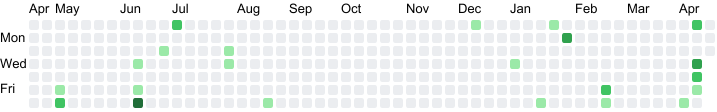
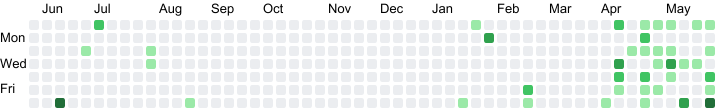
github草グラフ取得スクリプトの取り込み

diff --git a/src/pages/index.tsx b/src/pages/index.tsx
@@ -12,6 +12,10 @@ import Footer from "@/components/footer";
 import Head from "@/components/head";
 import style from "@/styles/index.module.css";
 
+const gitHubGraphImageLoader = (): string => {
+  return "https://himazin331.com/images/grass_graph.png";
+};
+
 const gitHubStatsImageLoader = (): string => {
   return "https://github-readme-stats.vercel.app/api?username=himazin331&count_private=true&show_icons=true";
 };
@@ -153,7 +157,7 @@ const IndexPage: NextPage<JSX.Element> = () => {
 
               <Card className={style.card}>
                 <div className={style.github_contributors} id="github_contributors">
-                  <Image className={style.grass_graph + ` next-image`} src="/images/grass_graph.png" alt="github contributes"
+                  <Image className={style.grass_graph + ` next-image`} src="grass_graph.png" loader={gitHubGraphImageLoader} alt="github contributes"
                     width="0" height="0" sizes="(max-width: 768px) 100vw, (max-width: 1200px) 50vw, 33vw" />
                 </div>
                 <Col className={style.github_widgets}>

diff --git a/scripts/get_github_grass.py b/scripts/get_github_grass.py
@@ -1,0 +1,73 @@
+import sys
+import xml.etree.ElementTree as ET
+
+import requests
+from bs4 import BeautifulSoup
+from reportlab.graphics import renderPDF, renderPM
+from svglib.svglib import svg2rlg
+
+GITHUB_URL: str = "https://github.com/himazin331/"
+
+
+def _parser_html(url: str) -> BeautifulSoup:
+    try:
+        r: requests.models.Response = requests.get(url, timeout=(3, 5))
+        soup: BeautifulSoup = BeautifulSoup(r.content, "html.parser")
+    except (requests.exceptions.ConnectionError, requests.exceptions.ConnectTimeout):
+        return None
+    return soup
+
+
+def main():
+    # 草グラフの取得
+    if (soup := _parser_html(GITHUB_URL)) is None:
+        sys.exit()
+    grass_graph = soup.find("svg", class_="js-calendar-graph-svg")
+    if grass_graph is None:
+        sys.exit()
+
+    # SVG解析
+    svg = ET.fromstring(str(grass_graph))
+
+    # xmlns付与
+    svg.attrib["xmlns"] = "http://www.w3.org/2000/svg"
+
+    # GitHubユーザ情報削除
+    first_g_attrib: dict = svg[0].attrib
+    del first_g_attrib["data-hydro-click"], first_g_attrib["data-hydro-click-hmac"]
+
+    # fill付与
+    for rect in svg.iter("rect"):
+        rect_attrib: dict = rect.attrib
+        data_level: int = int(rect_attrib["data-level"])
+        if data_level == 0:
+            rect_attrib["fill"] = "#ebedf0"
+        elif data_level == 1:
+            rect_attrib["fill"] = "#9be9a8"
+        elif data_level == 2:
+            rect_attrib["fill"] = "#40c463"
+        elif data_level == 3:
+            rect_attrib["fill"] = "#30a14e"
+        elif data_level == 4:
+            rect_attrib["fill"] = "#216e39"
+        del rect_attrib["data-level"]
+        rect.attrib = rect_attrib
+
+    # フォントサイズ指定
+    for text in svg.iter("text"):
+        text.attrib["font-size"] = "13"
+
+    svg: bytes = ET.tostring(svg, encoding="utf-8", method="xml")
+
+    # SVG保存
+    svg_path: str = "/var/www/homepage-blog/public/images/grass_graph"
+    with open(svg_path + ".svg", "wb") as f:
+        f.write(svg)
+
+    # PNG保存
+    drawing = svg2rlg(svg_path + ".svg")
+    renderPM.drawToFile(drawing, svg_path + ".png", fmt="PNG")
+
+
+if __name__ == "__main__":
+    main()
